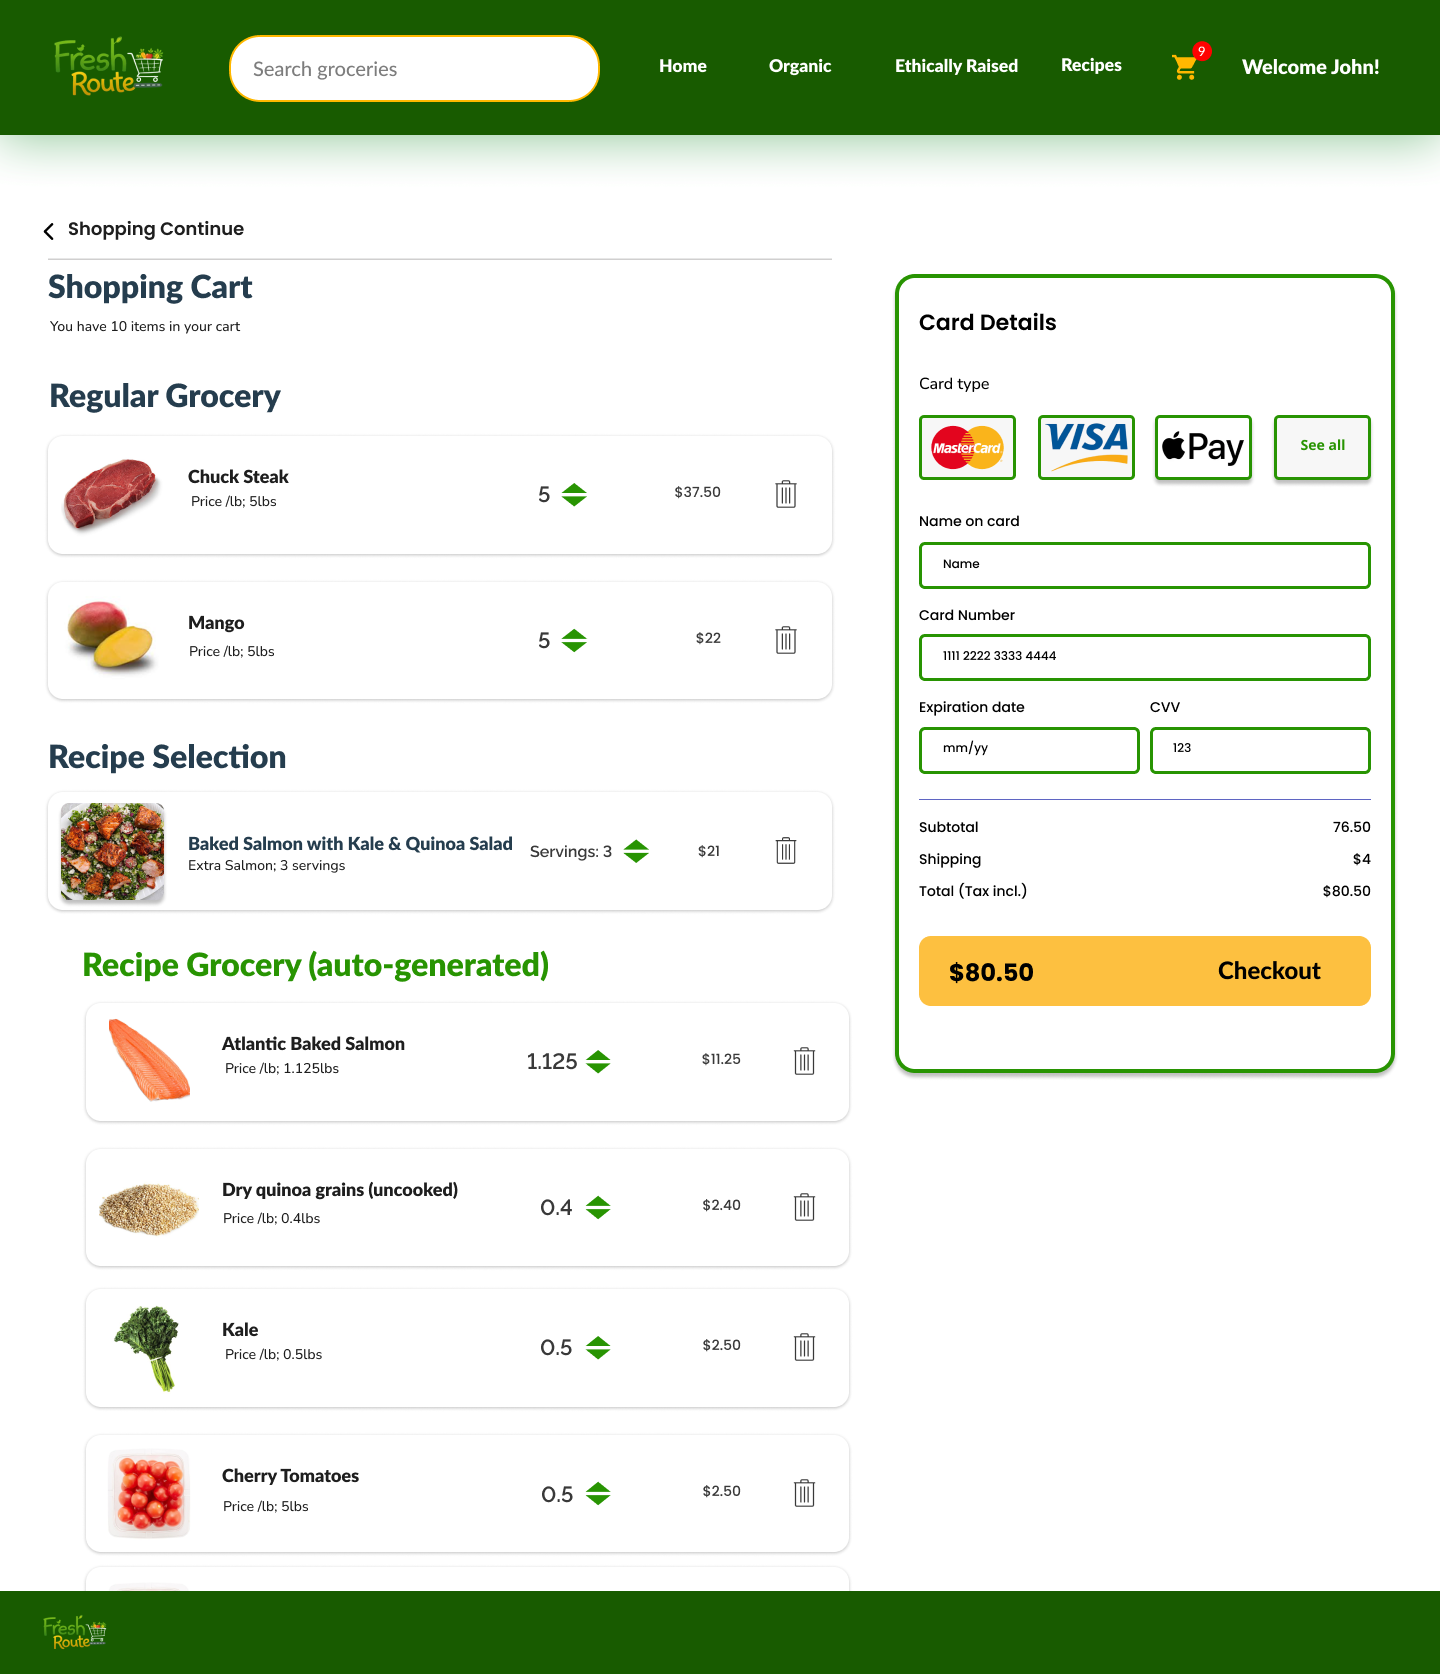
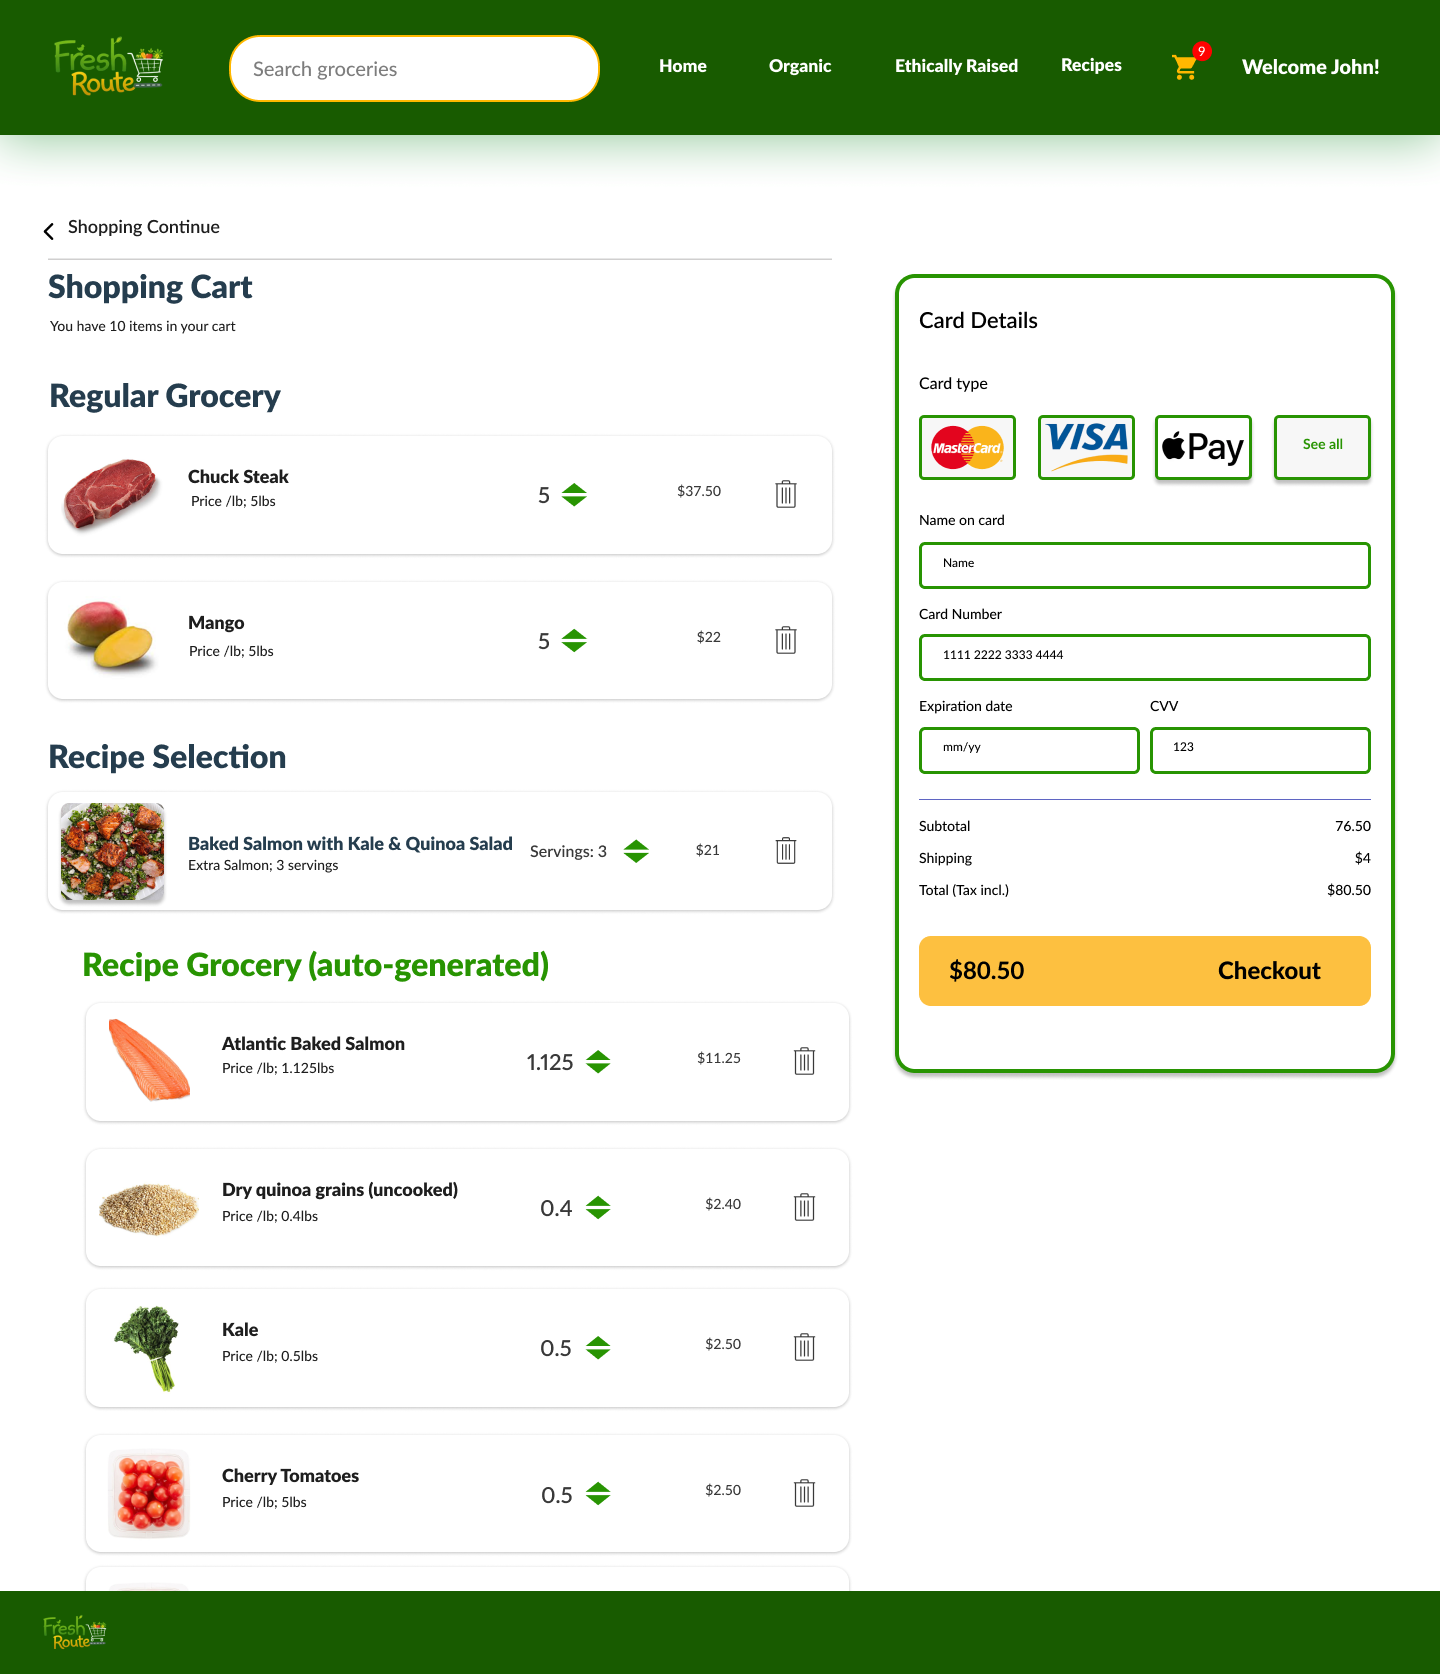
added the link to figma + UI

diff --git a/doc/sprint0/README.md b/doc/sprint0/README.md
@@ -26,6 +26,9 @@ This repository contains the design and implementation for the EECS 3311 course 
 - Discord Server:  
   https://discord.gg/8YT3uxnzum
 
+- Figma: 
+  https://www.figma.com/design/5c4UQhkcLux5jiRIkAHxb5/EECS3311_FreshRoute?node-id=24-2&t=YJvZso7EpI8yFKRt-1
+
 
 ## Motivation and Project Description
 

diff --git a/doc/sprint0/user_experience.md b/doc/sprint0/user_experience.md
@@ -1,5 +1,6 @@
 # User Experience - FreshRoute (Main Pages)
 
+Figma: https://www.figma.com/design/5c4UQhkcLux5jiRIkAHxb5/EECS3311_FreshRoute?node-id=24-2&t=YJvZso7EpI8yFKRt-1
 ---
 
 ## Page 1: Home Page
